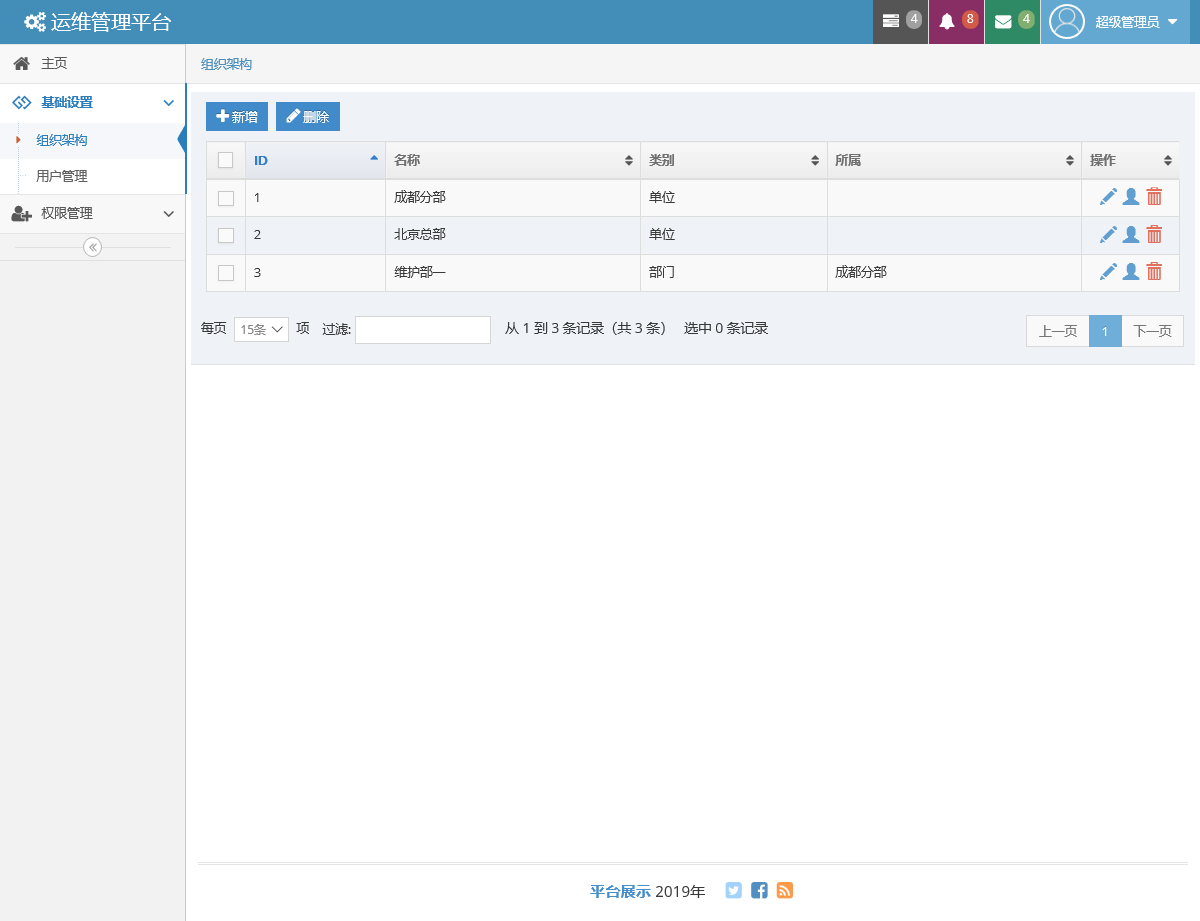
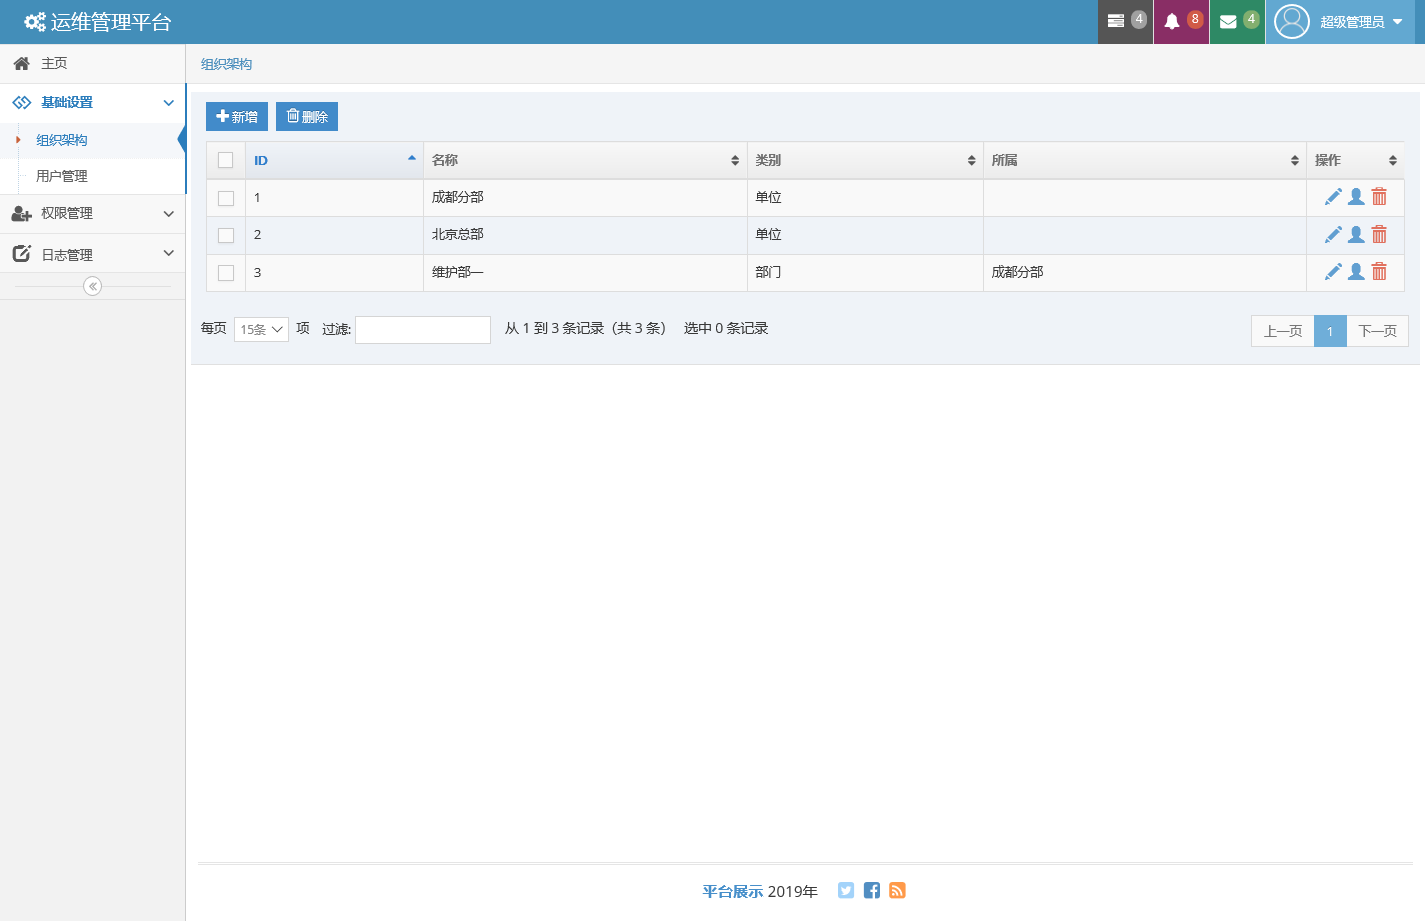
增加日志管理截图

diff --git a/README.md b/README.md
@@ -2,6 +2,9 @@
 该平台目前是一个基于django框架开发的轻量级平台，现已完成模块：登陆、权限控制（包括组织架构管理、用户管理、菜单管理、角色管理、个人信息设置）、系统日志管理，其目的在于建立一套规范化、统一化和清晰化的标准业务支撑承载平台。
 系统支持多数据库，能够清晰的处理、记录和追踪平台操作流程。
 目前已完成平台级功能，后续将持续提供业务场景化功能。
+后续的技术扩展：
+1. 可使用分布式任务队列管理工具（如celery，中间人采用redis）来处理比较耗时的操作，如发送邮件，计划任务等;
+2. 用mongodb来存储日志信息；
 
 # 1 功能介绍
 ## 1.1 系统登陆
@@ -16,4 +19,4 @@
 ## 1.2 系统日志功能介绍
 用于记录系统用户进入系统后的操作过程<br>
 图1：基于用户的操作痕迹<br>
-![image](https://github.com/RobbieHan/gistandard/blob/18ac4434490d3658b72a4a77ef6656ffad01beed/media/sandbox-image/001.jpg)<br>
+![image](https://github.com/hapjackye/platformshow/blob/master/Image/007.png)<br>
